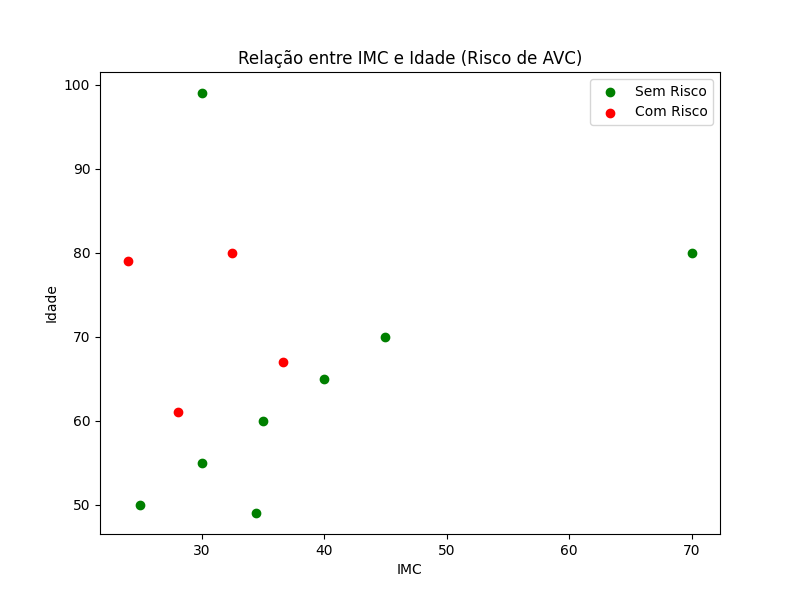
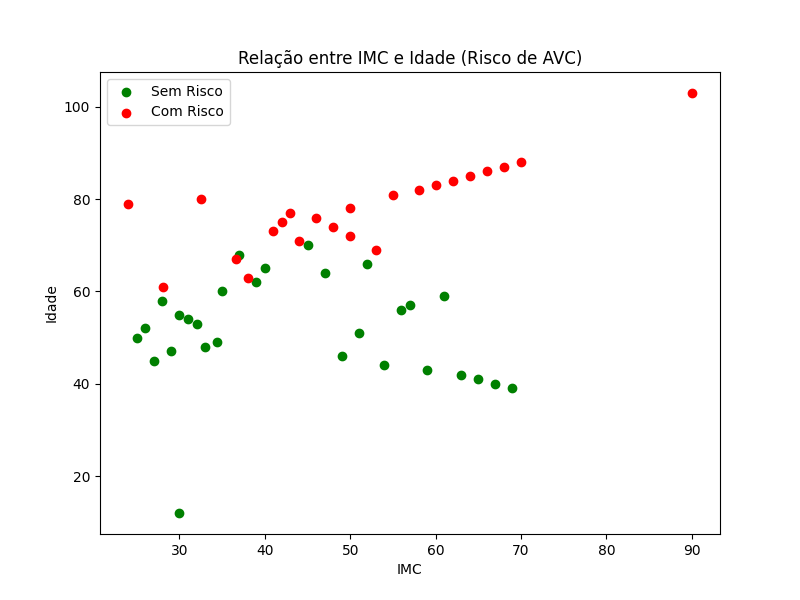
Funcionando tudo

diff --git a/templates/index.html b/templates/index.html
@@ -66,6 +66,11 @@
             </tbody>
         </table>
 
+        <!-- Botão para limpar o banco de dados -->
+        <form action="/clear" method="POST" onsubmit="return confirm('Tem certeza que deseja limpar todas as consultas?');">
+            <button type="submit" class="btn btn-danger">Limpar Consultas</button>
+        </form>
+
         <h2 class="mt-5">Gráficos:</h2>
         <div class="row">
             <div class="col-md-6">

diff --git a/models.py b/models.py
@@ -3,7 +3,7 @@ matplotlib.use('Agg')  # Define o backend como 'Agg'
 import matplotlib.pyplot as plt
 import pandas as pd
 from sklearn.model_selection import train_test_split
-from sklearn.neighbors import KNeighborsClassifier
+from sklearn.ensemble import RandomForestClassifier
 from sklearn.metrics import accuracy_score
 
 def load_data():
@@ -12,6 +12,9 @@ def load_data():
     return df
 
 def train_model(df):
+    # Certifique-se de que a coluna 'stroke' é do tipo inteiro
+    df['stroke'] = df['stroke'].astype(int)
+
     # Seleciona as características (features) e o alvo (target)
     features = df[['age', 'hypertension', 'heart_disease', 'avg_glucose_level', 'bmi']]
     target = df['stroke']
@@ -19,16 +22,21 @@ def train_model(df):
     # Divide os dados em treino e teste
     X_train, X_test, y_train, y_test = train_test_split(features, target, test_size=0.2, random_state=42)
 
-    # Treina o modelo KNN
-    model = KNeighborsClassifier(n_neighbors=10)  # Aumente o número de vizinhos
+    # Treina o modelo Random Forest
+    model = RandomForestClassifier(n_estimators=100, random_state=42)
     model.fit(X_train, y_train)
 
     # Avalia o modelo
     y_pred = model.predict(X_test)
     accuracy = accuracy_score(y_test, y_pred)
-    print(f'Acurácia do modelo KNN: {accuracy:.2f}')
+    print(f'Acurácia do modelo Random Forest: {accuracy:.2f}')
+
+    # Depuração: Verifique as previsões no conjunto de teste
+    print("Previsões no conjunto de teste:", y_pred)
+    print("Valores reais no conjunto de teste:", y_test.values)
 
     return model
+
 
 def predict_stroke(model, age, hypertension, heart_disease, avg_glucose_level, bmi):
     # Faz a previsão para um novo paciente

diff --git a/database.py b/database.py
@@ -1,3 +1,4 @@
+import pandas as pd
 import sqlite3
 
 def create_database():
@@ -21,6 +22,9 @@ def create_database():
     conn.close()
 
 def save_patient(age, hypertension, heart_disease, avg_glucose_level, bmi, stroke):
+    # Certifique-se de que stroke é um inteiro
+    stroke = int(stroke)
+    
     conn = sqlite3.connect('stroke.db')
     cursor = conn.cursor()
     cursor.execute('''
@@ -35,5 +39,33 @@ def get_patients():
     cursor = conn.cursor()
     cursor.execute('SELECT * FROM patients')
     patients = cursor.fetchall()
+    
+    # Converte o valor de stroke de bytes para int
+    patients = [
+        (id, age, hypertension, heart_disease, avg_glucose_level, bmi, int.from_bytes(stroke, byteorder='little') if isinstance(stroke, bytes) else int(stroke))
+        for id, age, hypertension, heart_disease, avg_glucose_level, bmi, stroke in patients
+    ]
+    
     conn.close()
     return patients
+
+def load_patients_to_dataframe():
+    conn = sqlite3.connect('stroke.db')
+    df = pd.read_sql_query('SELECT age, hypertension, heart_disease, avg_glucose_level, bmi, stroke FROM patients', conn)
+    conn.close()
+
+    # Certifique-se de que a coluna 'stroke' é do tipo inteiro
+    if not df.empty:
+        df['stroke'] = df['stroke'].apply(lambda x: int.from_bytes(x, byteorder='little') if isinstance(x, bytes) else int(x))
+
+    return df
+
+def clear_database():
+    conn = sqlite3.connect('stroke.db')
+    cursor = conn.cursor()
+
+    # Exclui todos os registros da tabela patients
+    cursor.execute('DELETE FROM patients')
+
+    conn.commit()
+    conn.close()

diff --git a/app.py b/app.py
@@ -1,14 +1,23 @@
 from flask import Flask, render_template, request
-from database import create_database, save_patient, get_patients
+from database import create_database, save_patient, get_patients, clear_database, load_patients_to_dataframe
 from models import load_data, train_model, predict_stroke, generate_graphs
 import os
-import pandas as pd  # Importação do Pandas
+import pandas as pd
 
 app = Flask(__name__)
 
 # Cria o banco de dados e carrega os dados
 create_database()
+
+# Carrega o dataset original
 df = load_data()
+
+# Carrega os dados do banco de dados e combina com o dataset original
+patients_df = load_patients_to_dataframe()
+if not patients_df.empty:
+    df = pd.concat([df, patients_df], ignore_index=True)
+
+# Treina o modelo
 model = train_model(df)
 
 # Cria a pasta para salvar gráficos
@@ -50,7 +59,7 @@ def predict():
         'bmi': [bmi],
         'stroke': [prediction]
     }
-    new_df = pd.DataFrame(new_data)  # Usando o Pandas para criar o DataFrame
+    new_df = pd.DataFrame(new_data)
     df = pd.concat([df, new_df], ignore_index=True)
 
     # Gera os gráficos novamente (com os novos dados)
@@ -61,6 +70,14 @@ def predict():
 
     # Retorna o template com o resultado e a lista de pacientes
     return render_template('index.html', result=result, patients=patients)
+
+@app.route('/clear', methods=['POST'])
+def clear():
+    from database import clear_database
+    clear_database()  # Limpa o banco de dados
+
+    # Recarrega a página inicial
+    return index()
 
 if __name__ == '__main__':
     app.run(debug=True)
